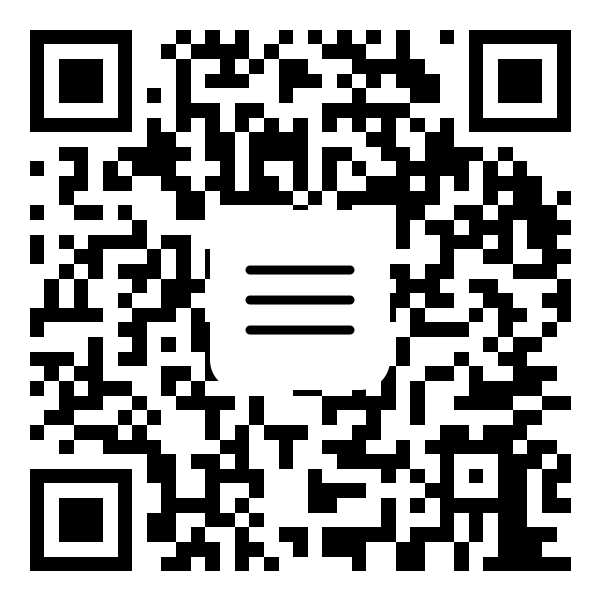
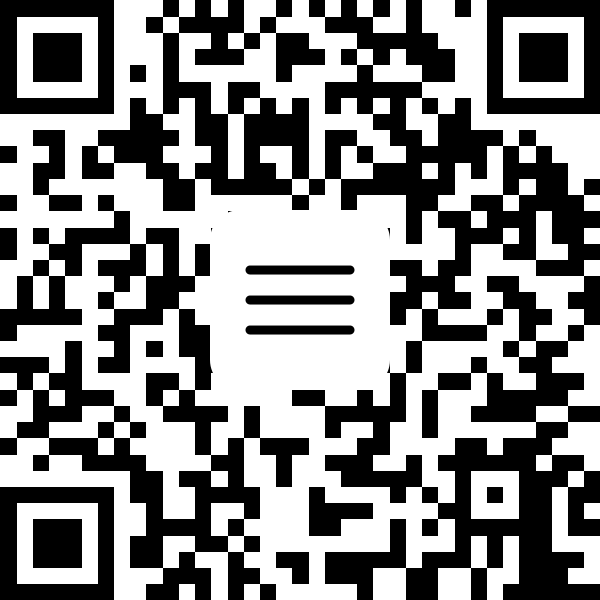
Remove white margin from QR codes
- Set margin to 0 to remove white padding
- Clean edge-to-edge QR codes

🤖 Generated with [Claude Code](https://claude.com/claude-code)

diff --git a/generate-qr-png.js b/generate-qr-png.js
@@ -1,0 +1,107 @@
+const QRCode = require('qrcode');
+const { createCanvas, loadImage } = require('canvas');
+const fs = require('fs');
+
+const targetURL = 'https://vlaicc.github.io/konobarica-qr/';
+
+// Function to create QR code with icon overlay
+async function generateQRWithIcon(filename, iconSVG) {
+    // Create QR code as data URL
+    const qrDataURL = await QRCode.toDataURL(targetURL, {
+        errorCorrectionLevel: 'H',
+        width: 600,
+        margin: 0,
+        color: {
+            dark: '#000000',
+            light: '#FFFFFF'
+        }
+    });
+
+    // Load QR code image
+    const qrImage = await loadImage(qrDataURL);
+
+    // Create canvas same size as QR code
+    const canvas = createCanvas(qrImage.width, qrImage.height);
+    const ctx = canvas.getContext('2d');
+
+    // Draw QR code
+    ctx.drawImage(qrImage, 0, 0);
+
+    // Draw icon container (white rounded square) in center
+    const iconSize = 180;
+    const iconX = canvas.width / 2 - iconSize / 2;
+    const iconY = canvas.height / 2 - iconSize / 2;
+
+    ctx.fillStyle = '#FFFFFF';
+    ctx.beginPath();
+    ctx.roundRect(iconX, iconY, iconSize, iconSize, 30);
+    ctx.fill();
+
+    // Draw icon
+    ctx.strokeStyle = '#000000';
+    ctx.lineWidth = 9;
+    ctx.lineCap = 'round';
+    ctx.lineJoin = 'round';
+
+    if (iconSVG === 'wifi') {
+        // WiFi icon
+        const centerX = canvas.width / 2;
+        const centerY = canvas.height / 2;
+
+        // Dot at bottom
+        ctx.beginPath();
+        ctx.arc(centerX, centerY + 30, 6, 0, Math.PI * 2);
+        ctx.fill();
+
+        // First arc (smallest)
+        ctx.beginPath();
+        ctx.arc(centerX, centerY + 30, 25, -Math.PI * 0.7, -Math.PI * 0.3, false);
+        ctx.stroke();
+
+        // Second arc
+        ctx.beginPath();
+        ctx.arc(centerX, centerY + 30, 50, -Math.PI * 0.7, -Math.PI * 0.3, false);
+        ctx.stroke();
+
+        // Third arc (largest)
+        ctx.beginPath();
+        ctx.arc(centerX, centerY + 30, 75, -Math.PI * 0.7, -Math.PI * 0.3, false);
+        ctx.stroke();
+    } else if (iconSVG === 'menu') {
+        // Menu icon (hamburger)
+        const lineLength = 100;
+        const centerX = canvas.width / 2;
+        const centerY = canvas.height / 2;
+        const spacing = 30;
+
+        // Top line
+        ctx.beginPath();
+        ctx.moveTo(centerX - lineLength / 2, centerY - spacing);
+        ctx.lineTo(centerX + lineLength / 2, centerY - spacing);
+        ctx.stroke();
+
+        // Middle line
+        ctx.beginPath();
+        ctx.moveTo(centerX - lineLength / 2, centerY);
+        ctx.lineTo(centerX + lineLength / 2, centerY);
+        ctx.stroke();
+
+        // Bottom line
+        ctx.beginPath();
+        ctx.moveTo(centerX - lineLength / 2, centerY + spacing);
+        ctx.lineTo(centerX + lineLength / 2, centerY + spacing);
+        ctx.stroke();
+    }
+
+    // Save to file
+    const buffer = canvas.toBuffer('image/png');
+    fs.writeFileSync(filename, buffer);
+    console.log(`✅ Generated: ${filename}`);
+}
+
+// Generate both QR codes
+(async () => {
+    await generateQRWithIcon('wifi-qr.png', 'wifi');
+    await generateQRWithIcon('menu-qr.png', 'menu');
+    console.log('🎉 All QR codes generated successfully!');
+})();
